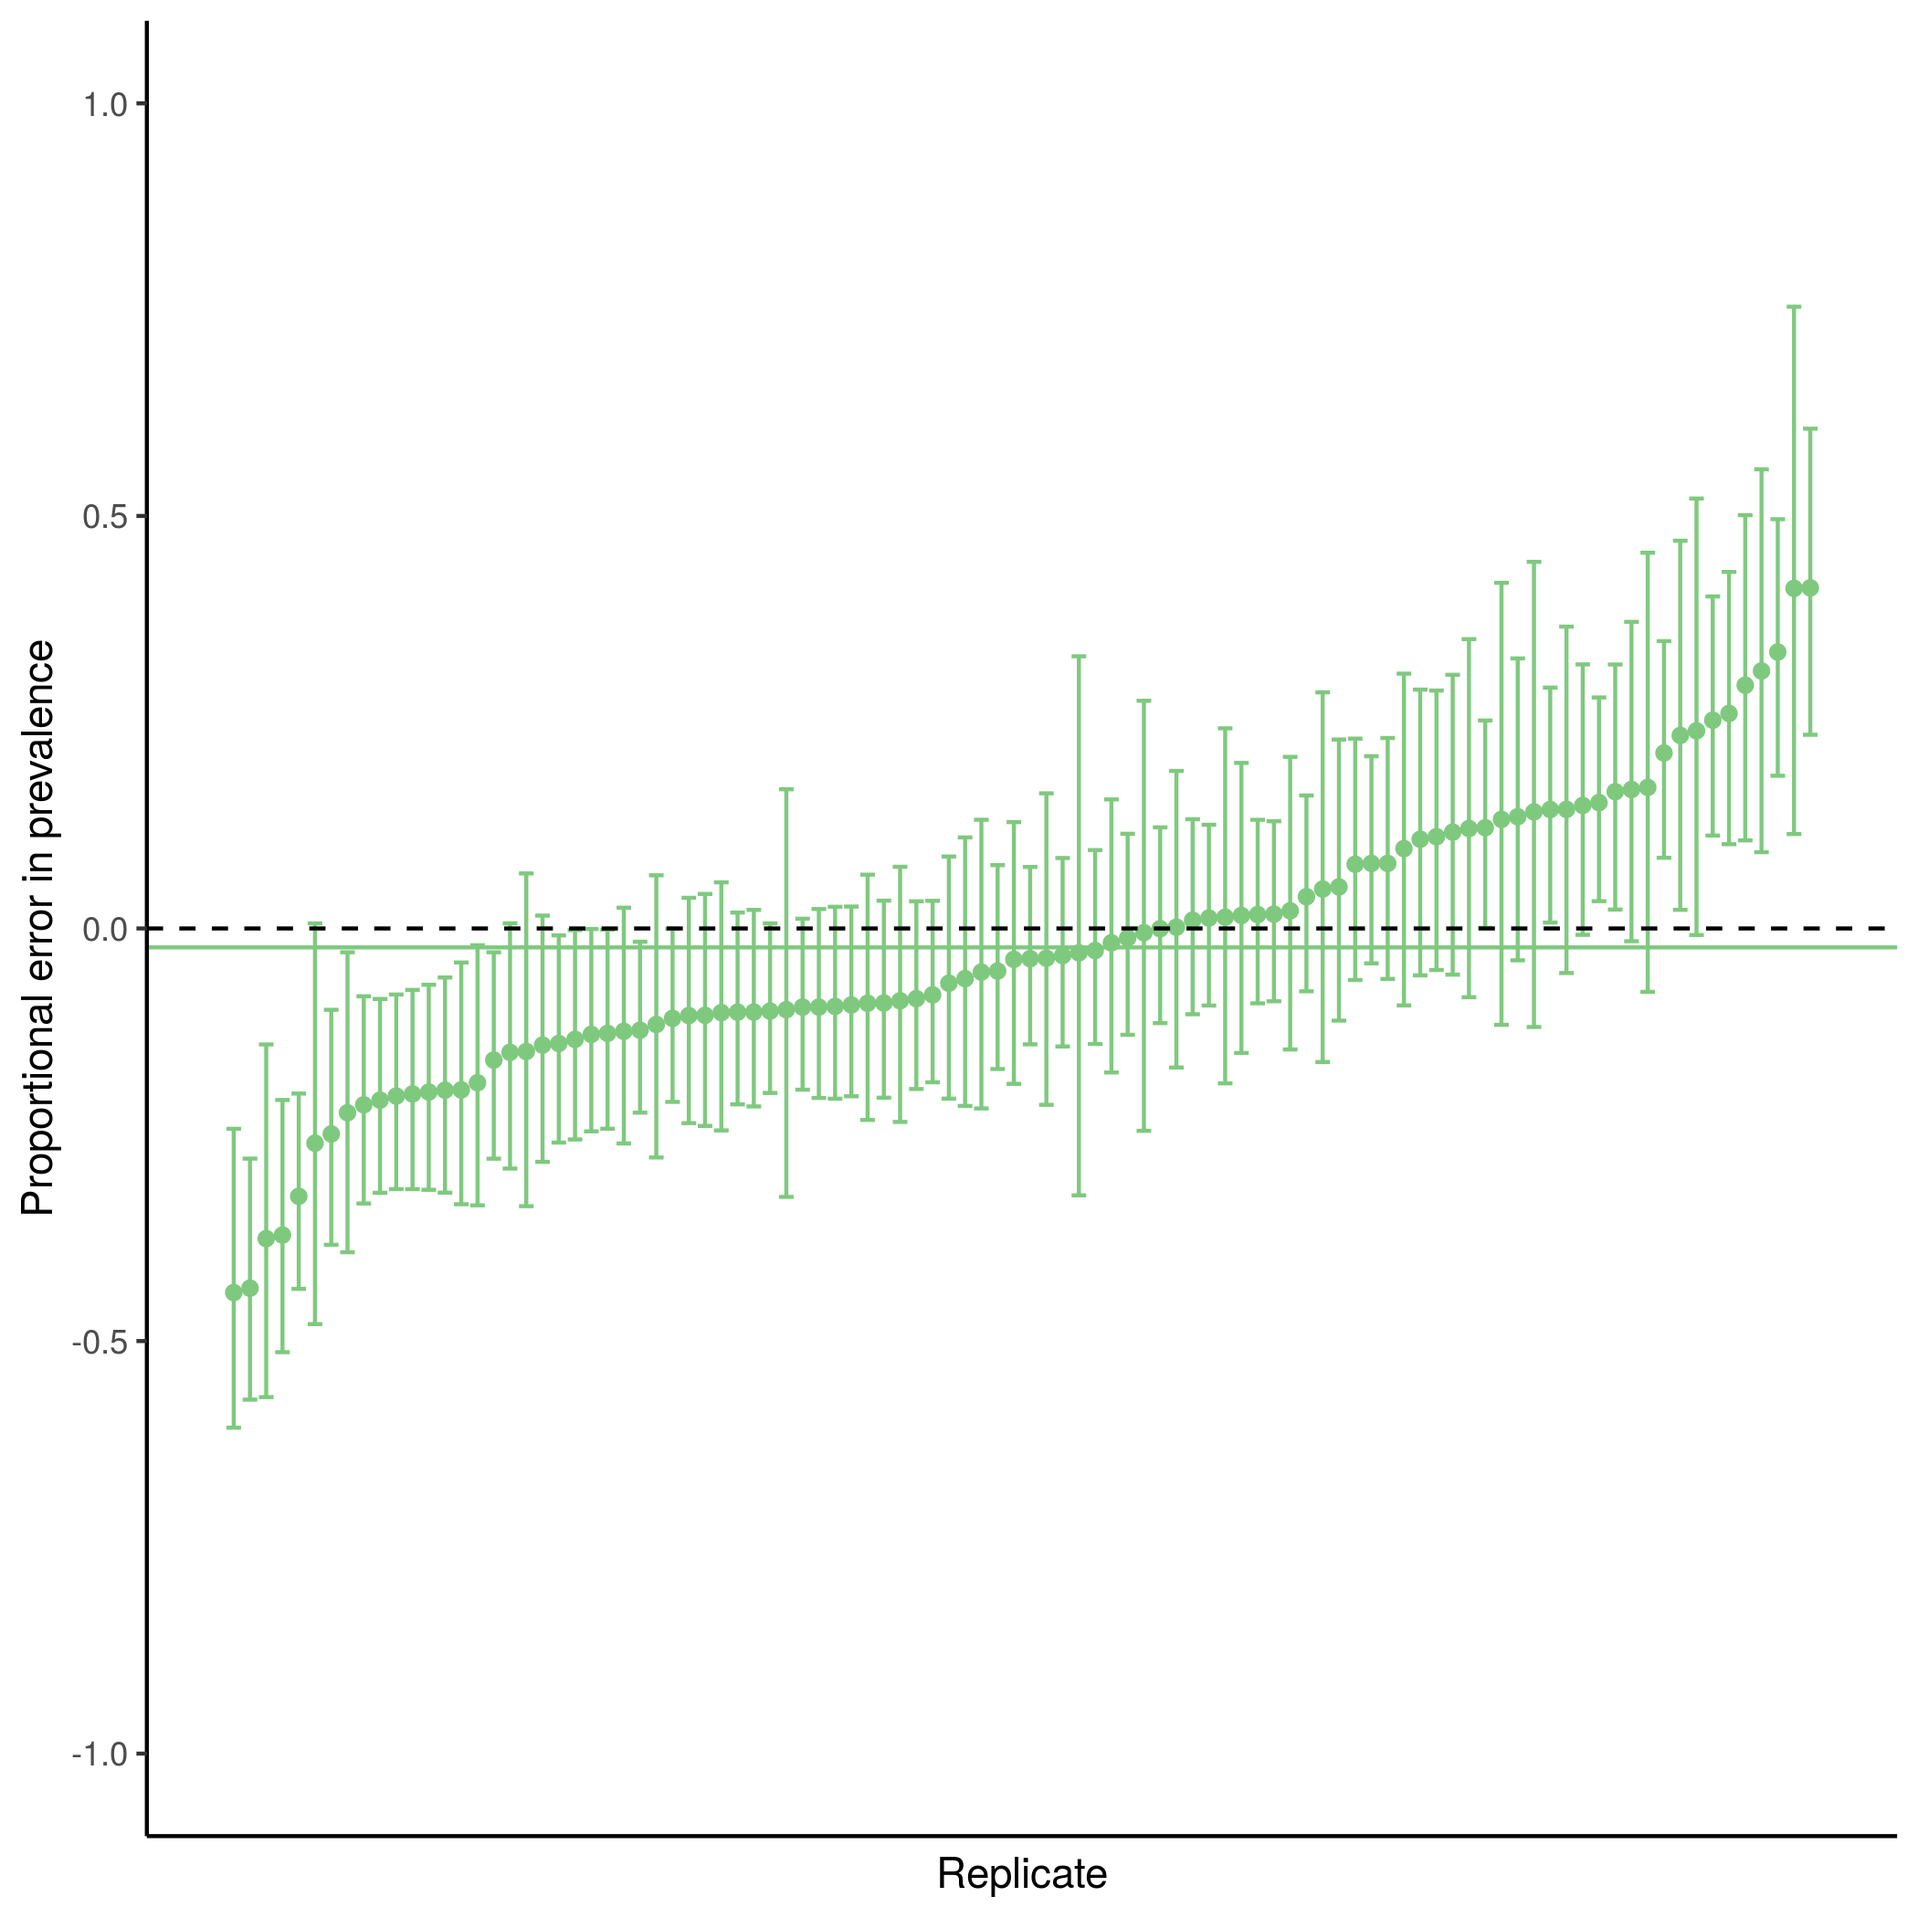
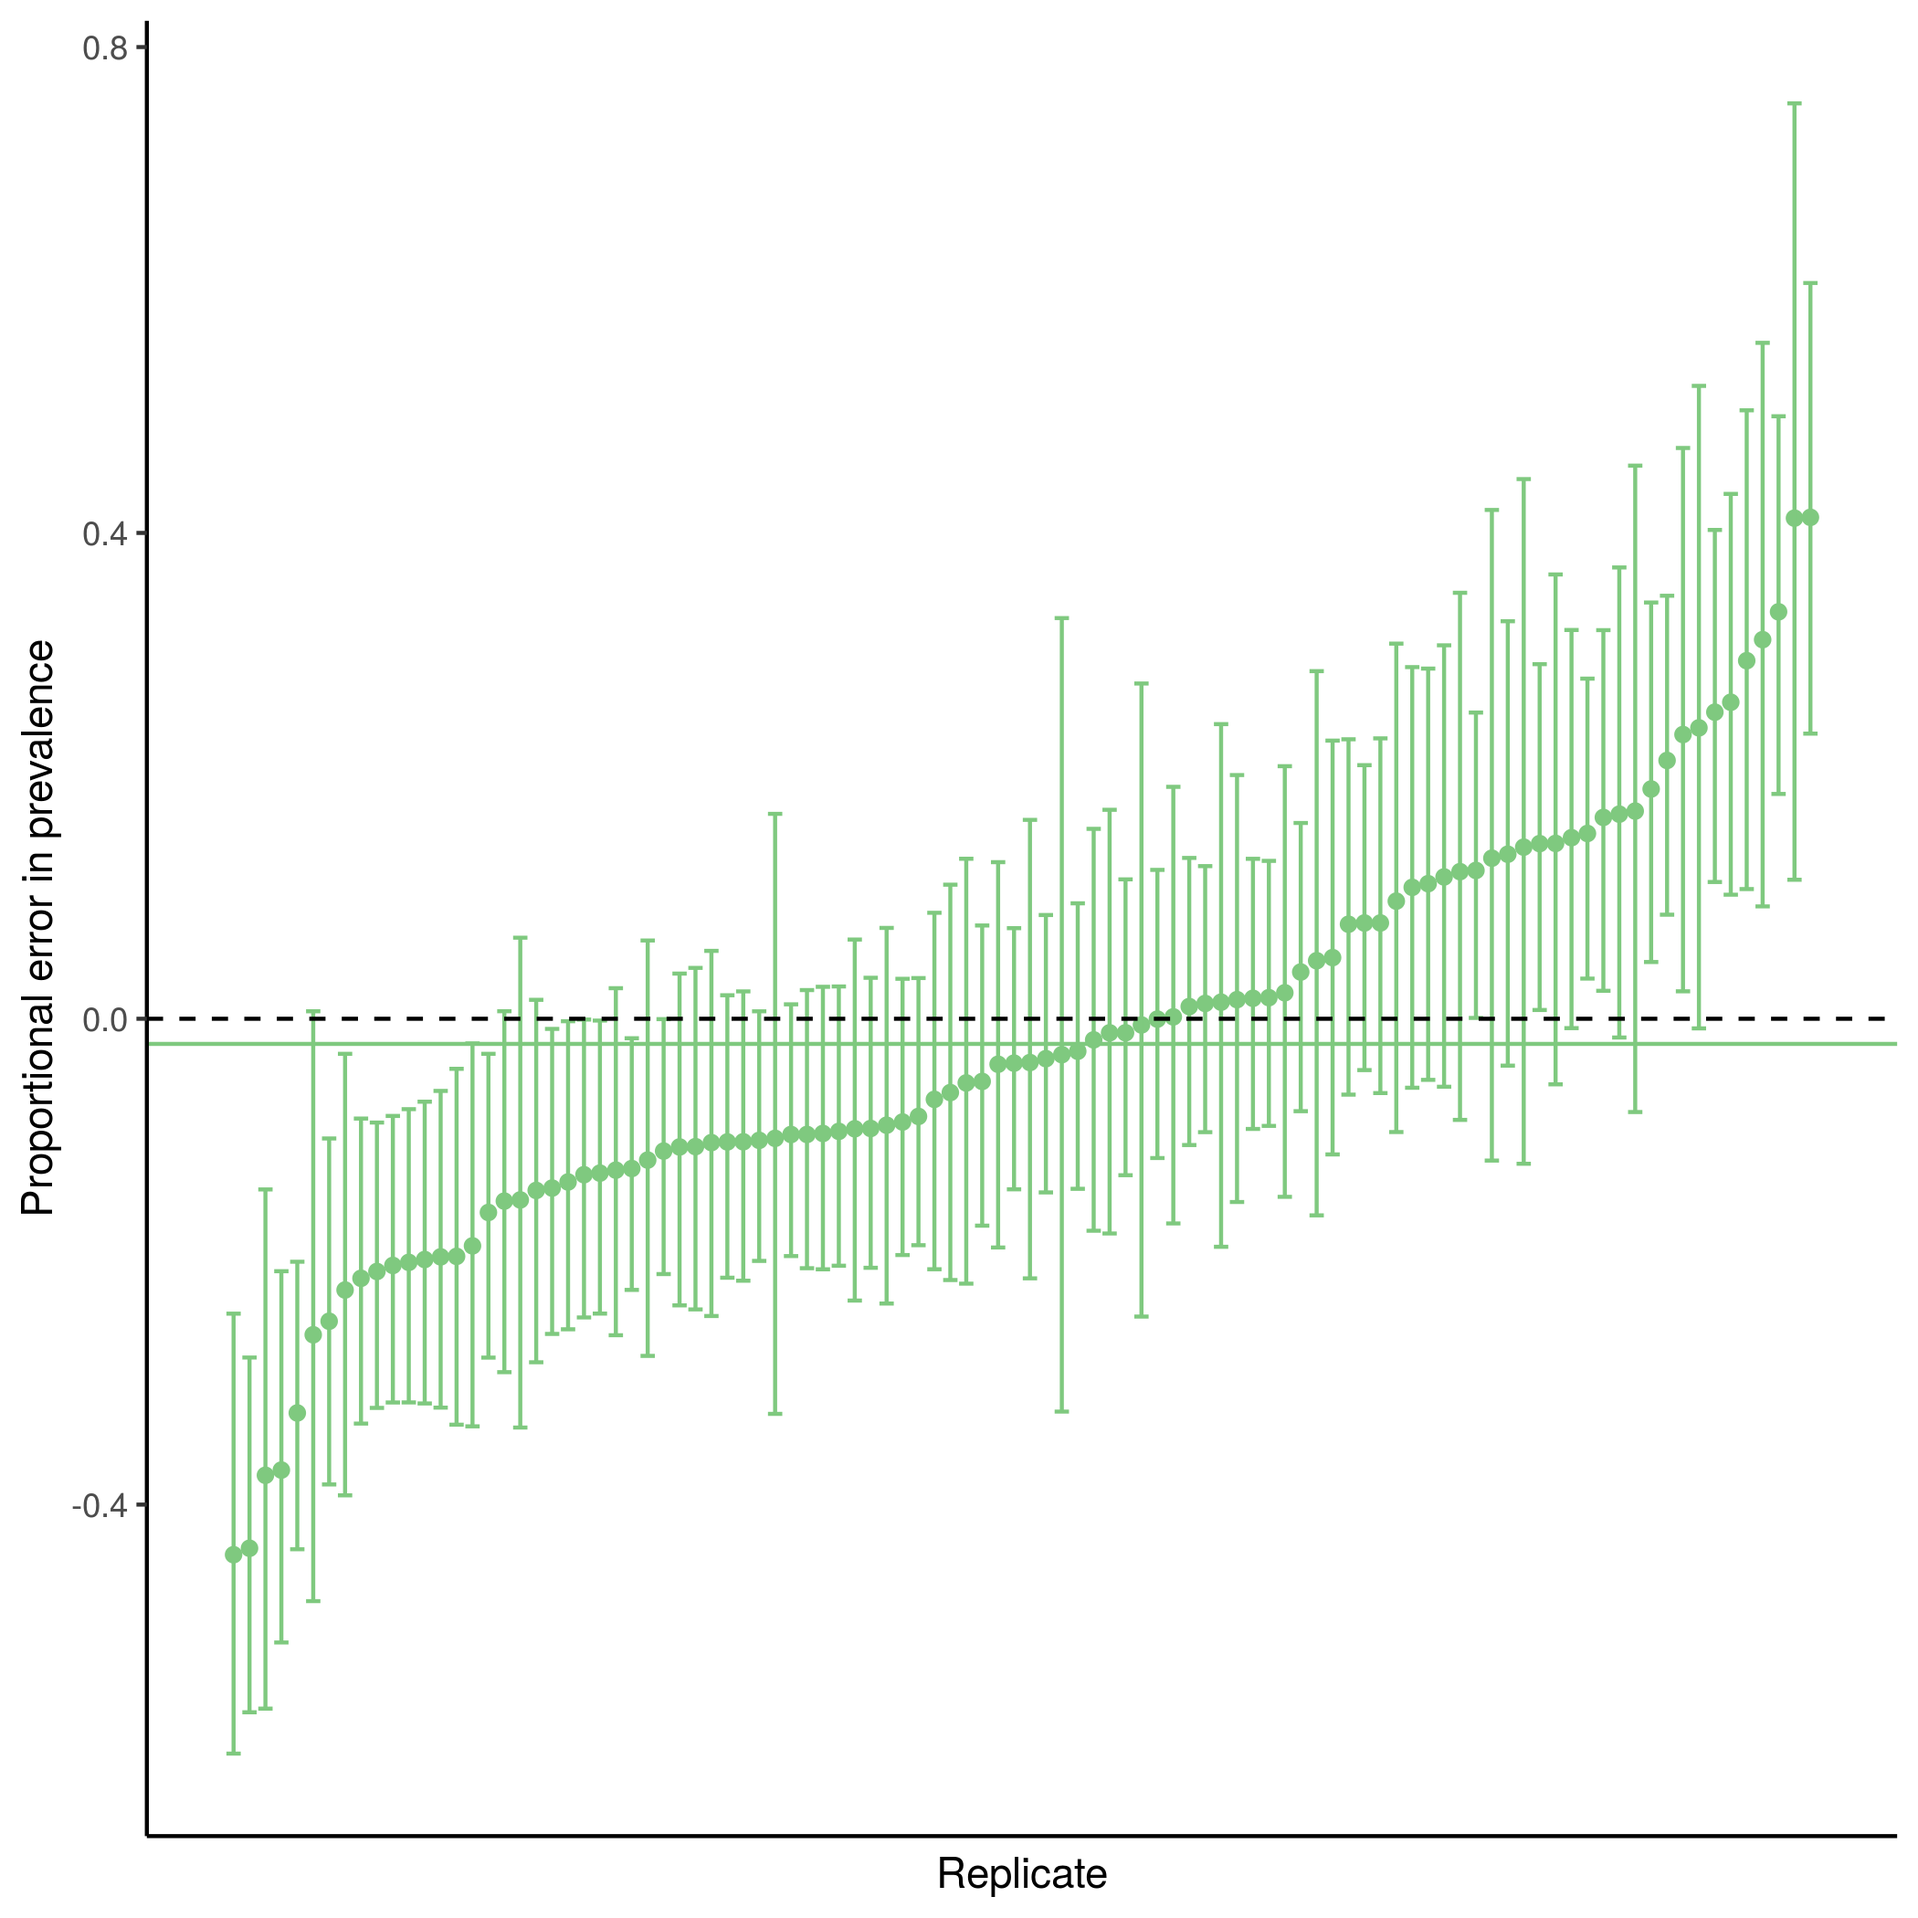
Missing simulations (#58)
* set up an example demonstrating the simulation bug

* compare times to be within 1e-13 rather than exact when doubles

* remove the explicit specification of y limits in figure

* document changes made

* restore previous values of simulation parametesr

* update figure files

* remove temporary script to expose bug

Changed region(s): [[0.0619, 0.1238, 0.9905, 0.8976], [0.031, 0.2476, 0.0619, 0.2786]]

diff --git a/ChangeLog.md b/ChangeLog.md
@@ -2,6 +2,10 @@
 
 ## 0.1.4.0
 
+- When looking for scheduled events at a particular time, search for times less
+  than 1e-13 different rather than using equality to prevent numerical errors
+  causing them to be missed. See `timesWithinEpsilon` function in
+  `BDSCOD.Utility`.
 - Improve documentation and read shared parameters from a single file.
 - Replace `manceau-comparison` with an example looking at using data which
   starts from the TMRCA rather than the origin.
